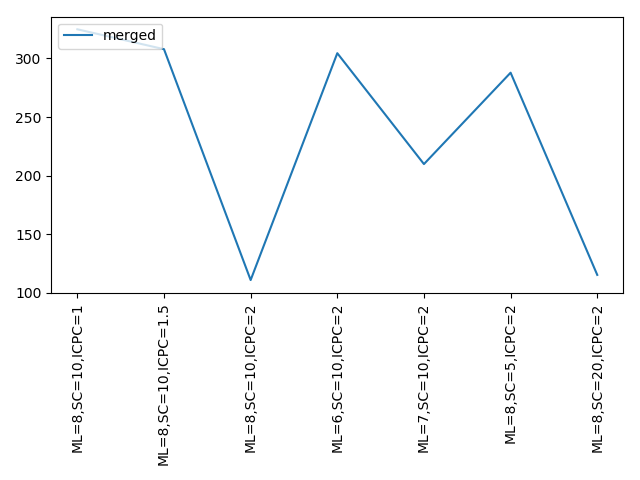
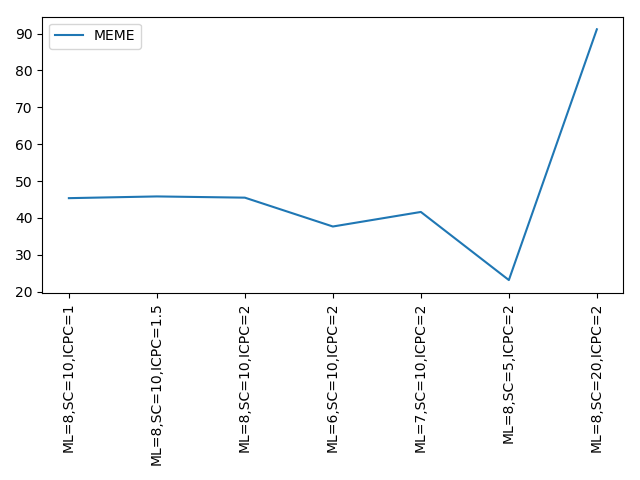
add std plot

diff --git a/Part2_0429.py b/Part2_0429.py
@@ -23,16 +23,18 @@ def background_prob(fa_Seq,sites,motif_len):
     return background_p
 
 def gibbs_without_F_unitil_converge(file_number):
-    fa_path = "D:/IntroToDataMining-CS412/final project/benchmark/dataset"+str(file_number)+"/sequences.fa"
+    fa_path = "benchmark/dataset"+str(file_number)+"/sequences.fa"
     fa_in = open(fa_path,"r")
     fa_Seq = []
     fa_Num = 0
     for line in fa_in.readlines():
         line = line.rstrip()
-        fa_Num = fa_Num + 1
-        fa_Seq.append(line)
+        if '>' not in line:
+            fa_Num = fa_Num + 1
+            fa_Seq.append(line)
+    print(fa_Seq)
     # read motiflen
-    motif_len_path = "D:/IntroToDataMining-CS412/final project/benchmark/dataset"+str(file_number)+"/motiflength.txt"
+    motif_len_path = "benchmark/dataset"+str(file_number)+"/motiflength.txt"
     motiflen_in = open(motif_len_path,"r")
     motif_len = int(motiflen_in.readline())
     # set initial value
@@ -48,7 +50,7 @@ def gibbs_without_F_unitil_converge(file_number):
     hide_index = 0
     equal_count = 0
     step_count = 0
-    while equal_count < 3 and step_count<80000:
+    while equal_count < 3 and step_count<800:
         step_count += 1
         hide_same = True
         while hide_same:
@@ -89,7 +91,7 @@ def gibbs_without_F_unitil_converge(file_number):
             equal_count = 0
         sites = copy.deepcopy(temp_sites)
         k_mers = copy.deepcopy(temp_k_mers)
-        if equal_count ==3 or step_count == (80000-1):
+        if equal_count ==3 or step_count == (800-1):
             A.append(sites)
             B.append(k_mers)
     B = B[-1]
@@ -106,19 +108,20 @@ def gibbs_without_F_unitil_converge(file_number):
                 M[3][i] += 1
     M = np.array(M)  # pro_matrixpsudo_count_matrix
     # write into file:
-    os.mkdir('Gibbs_No_F_80000/dataset' + str(file_number))
+    os.mkdir('output/dataset' + str(file_number))
     ## write sites to 'sites.txt'
-    file = open('Gibbs_No_F_80000/dataset' + str(file_number) + '/predictedsites.txt', 'w+')
+    file = open('output/dataset' + str(file_number) + '/predictedsites.txt', 'w+')
     for row in A[-1]:
         file.write(str(row) + '\n')
     file.close()
     ## write motif to 'motif.txt'
-    file = open('Gibbs_No_F_80000/dataset' + str(file_number) + '/predictedmotif.txt', 'w+')
-    header = 'MOTIF{0}    {1}\n'.format(str(file_number), str(motif_len))
+    file = open('output/dataset' + str(file_number) + '/predictedmotif.txt', 'w+')
+    header = '>MOTIF{0}    {1}\n'.format(str(file_number), str(motif_len))
     file.write(header)
     for row in (M/fa_Num).T:
         line = ' '.join(str(x) for x in row)
         file.write(line + '\n')
+    file.write('<')
     file.close()
 
 

diff --git a/Part3.py b/Part3.py
@@ -106,7 +106,7 @@ def avg_std(metrics):
 
 
 
-def draw(y, filename):
+def draw(y, filename, plotname):
     plt.clf()
     # plt.plot(range(len(y[0])), y[0], label='Gibbs_F_2')
     plt.plot(range(len(y)), y, label='MEME')
@@ -114,6 +114,7 @@ def draw(y, filename):
     # plt.plot(range(len(y)), y, label='merged')
     # plt.plot(range(len(y[1])), y[1], label='Gibbs_No_F')
     plt.legend(loc='upper left')
+    plt.title(plotname)
     plt.xticks(np.arange(7), ['ML=8,SC=10,ICPC=1','ML=8,SC=10,ICPC=1.5','ML=8,SC=10,ICPC=2','ML=6,SC=10,ICPC=2','ML=7,SC=10,ICPC=2','ML=8,SC=5,ICPC=2','ML=8,SC=20,ICPC=2'], rotation=90)
     plt.tight_layout()
     plt.savefig(filename)
@@ -178,25 +179,33 @@ if __name__ == '__main__':
         overlap_final = seven_list(overlap)
         # overlap_final = np.array(overlap).reshape((7,10))
 
-        avg, _ = avg_std(dkl_final)
-        kld.append(avg)
-        avg, _ = avg_std(position_final)
-        pos.append(avg)
-        avg, _ = avg_std(overlap_final)
-        site.append(avg)
+        avg, std = avg_std(dkl_final)
+        # kld.append(avg)
+        draw(std, 'KLD_std.png', 'KLD standard error')
+        print(dkl_final)
+        avg, std = avg_std(position_final)
+        # pos.append(avg)
+        draw(std, 'POS_std.png', 'Position standard error')
+        print(position_final)
+        avg, std = avg_std(overlap_final)
+        # site.append(avg)
+        draw(std, 'SITE_std.png', 'Site standard error')
+        print(std)
 
-    draw(kld[0], 'KLDf.png')
-    draw(pos[0], 'POSf.png')
-    draw(site[0], 'SITEf.png')
-    # time, _ = avg_std(get_runtime())
+    # draw(kld[0], 'KLD.png')
+    # draw(pos[0], 'POS.png')
+    # draw(site[0], 'SITE.png')
+    time, std = avg_std(get_runtime())
     # draw(time, 'TIME.png')
+    draw(std, 'TIME_std.png', 'Time standard error')
+    # print(std)
     # print(time)
     #
     # print(kld)
     # print(pos)
     # print(site)
     # print(time)
-    #
+
     # avg, std = avg_std(kld)
     # print('average for KLD is {}, standard error for KLD is {}'.format(avg, std))
     # avg, std = avg_std(pos)
@@ -205,3 +214,4 @@ if __name__ == '__main__':
     # print('average for overlap site is {}, standard error for overlap site is {}'.format(avg, std))
     # avg, std = avg_std(time)
     # print('average for runtime is {}, standard error for runtime is {}'.format(np.mean(time), np.std(time)))
+

diff --git a/modify.py b/modify.py
@@ -1,22 +1,15 @@
-# for i in range(70):
-#     file = open('benchmark/dataset{}/motif.txt'.format(str(i)), 'wr+')
-#     ind = 0
-#     contents = []
-#     for line in file:
-#         line = '>sequence'+str(ind)+'\n'+line
-#         contents.append(line)
-#         ind += 1
-#     contents = ''.join(contents)
-#     file.write(contents)
-#     file.close()
+path = 'project_submission/output/gibbs_no_f/loop80000'
 for i in range(70):
-    file = open('dataset/dataset{}/sites.txt'.format(str(i)), 'r')
-    contents = file.read()
+    file = open(path+'/dataset{}/predictedmotif.txt'.format(str(i)), 'r')
+    content = file.read()
     file.close()
 
-    contents = contents.split(',')
-    contents = '\n'.join(contents)
-
-    file = open('dataset/dataset{}/sites.txt'.format(str(i)), 'w')
-    file.write(contents)
+    file = open(path + '/dataset{}/predictedmotif.txt'.format(str(i)), 'w')
+    file.seek(0,0)
+    content = '>'+content+'<'
+    file.write(content)
     file.close()
+
+    # file = open(path+'/dataset{}/predictedmotif.txt'.format(str(i)), 'a+')
+    # file.write('<')
+    # file.close()
